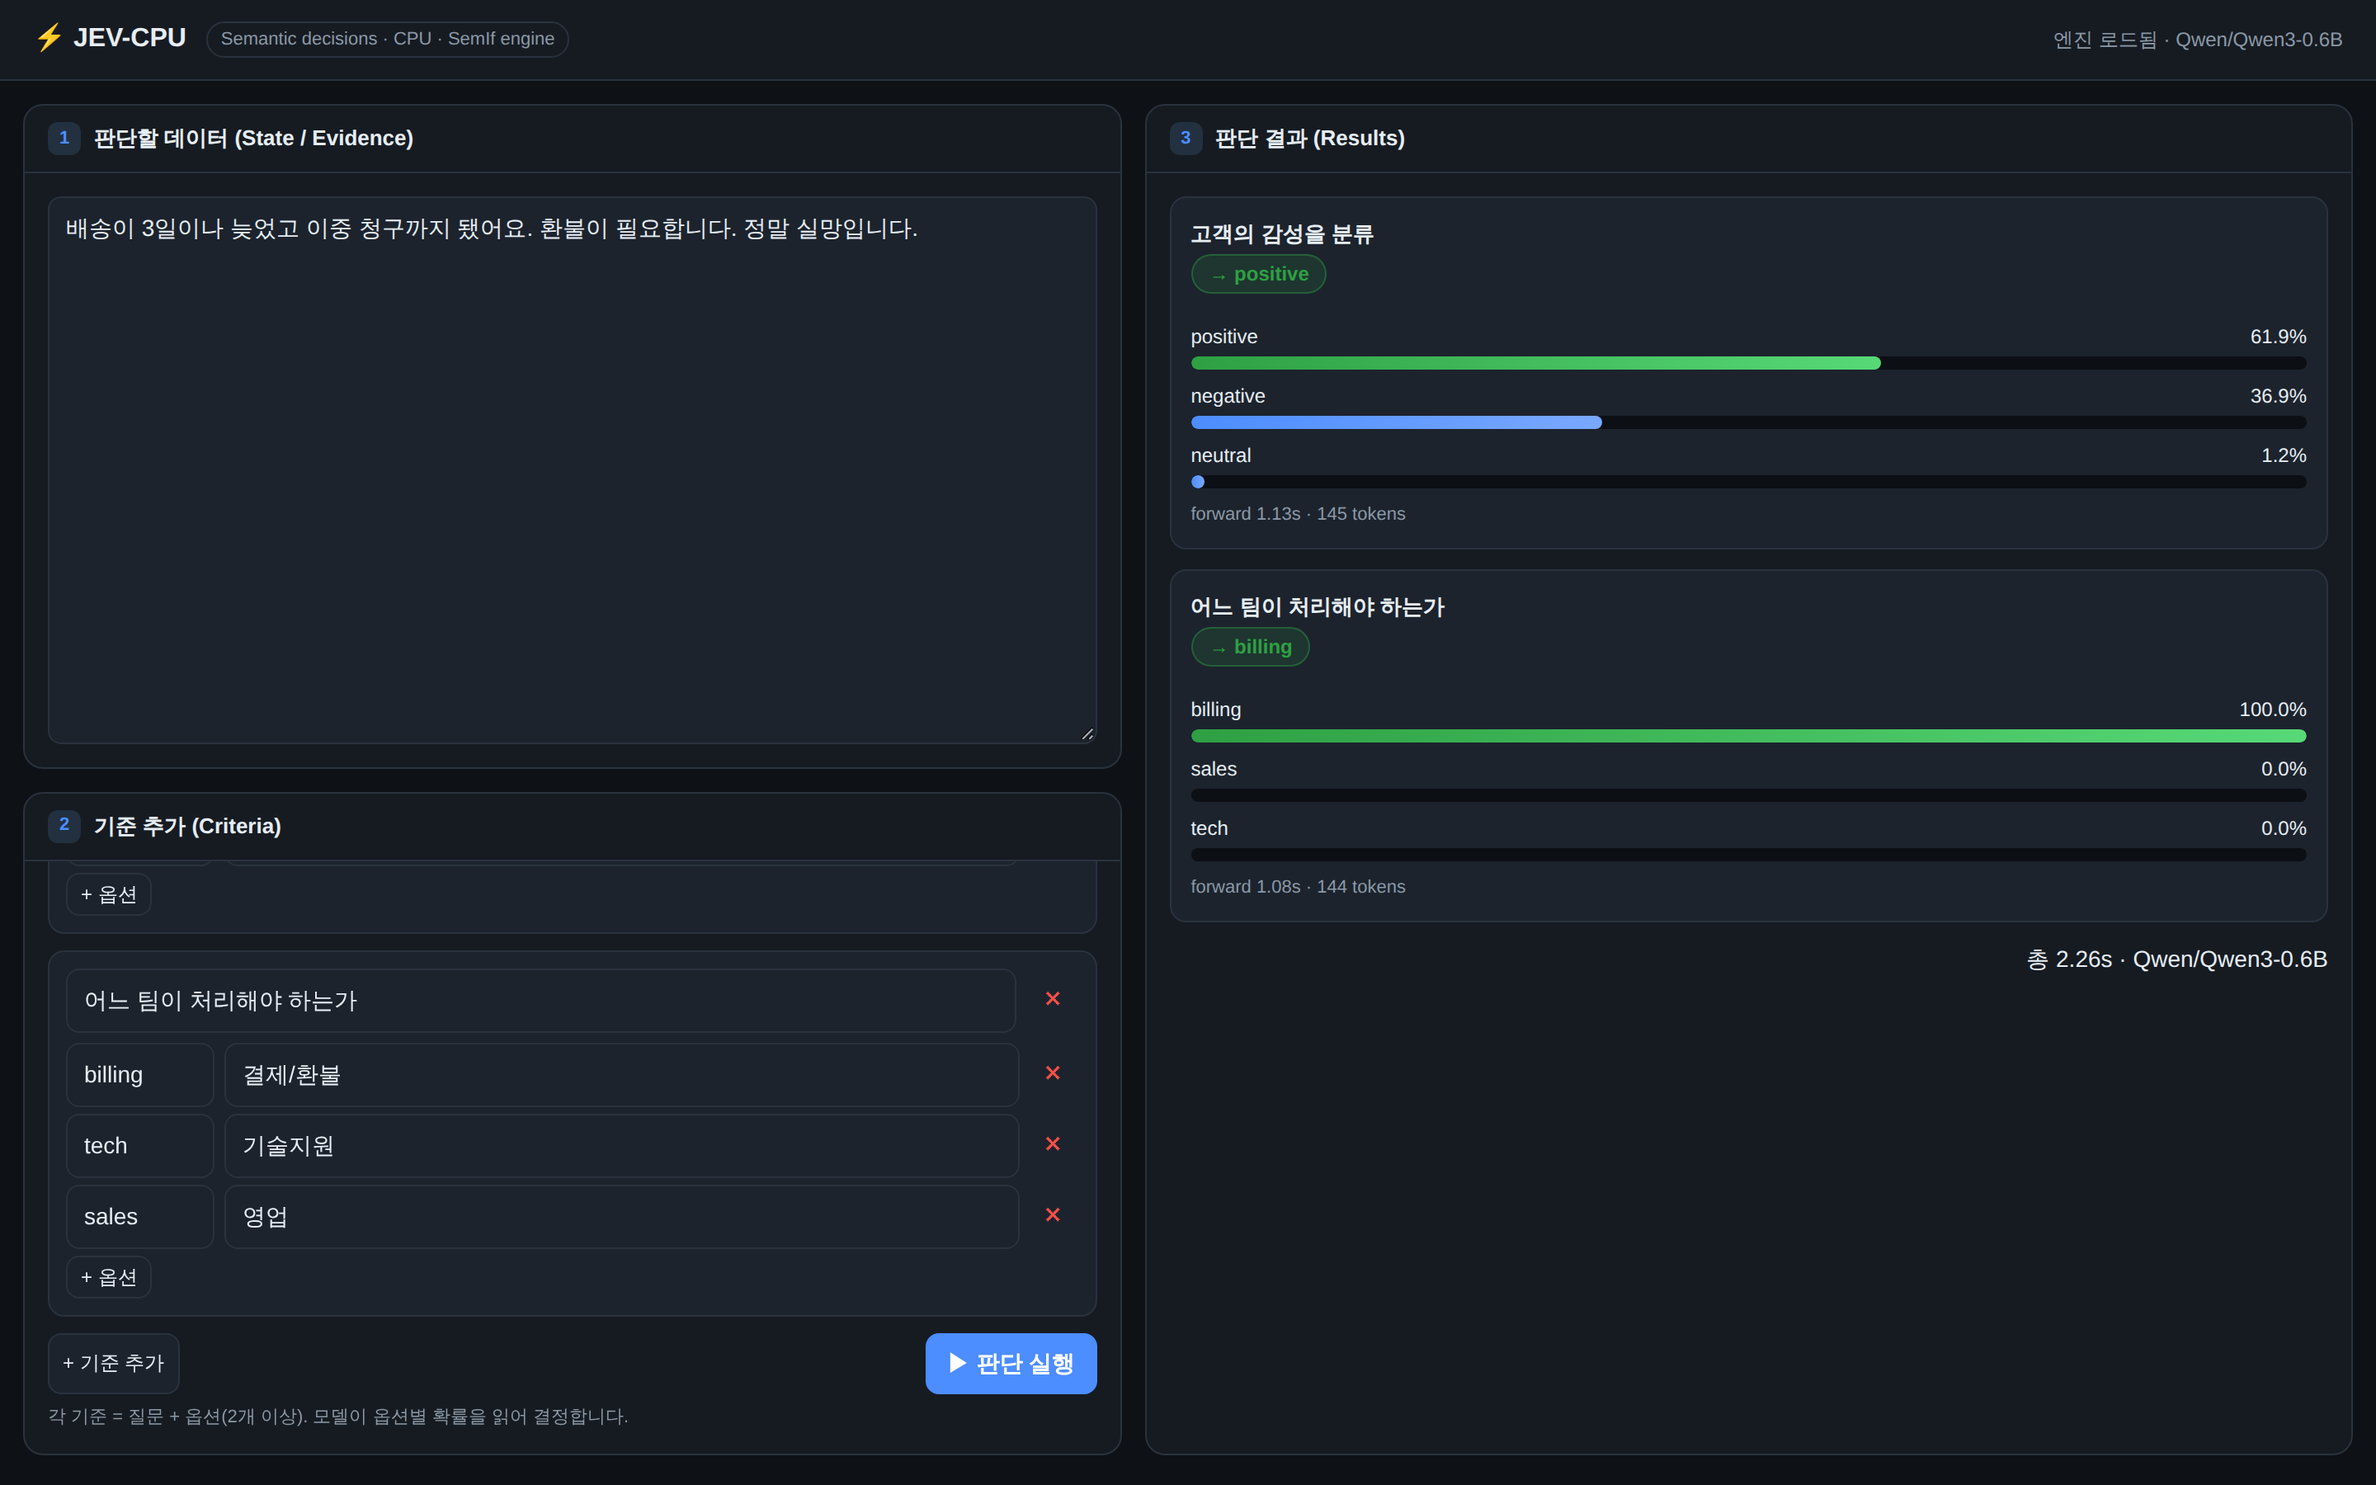
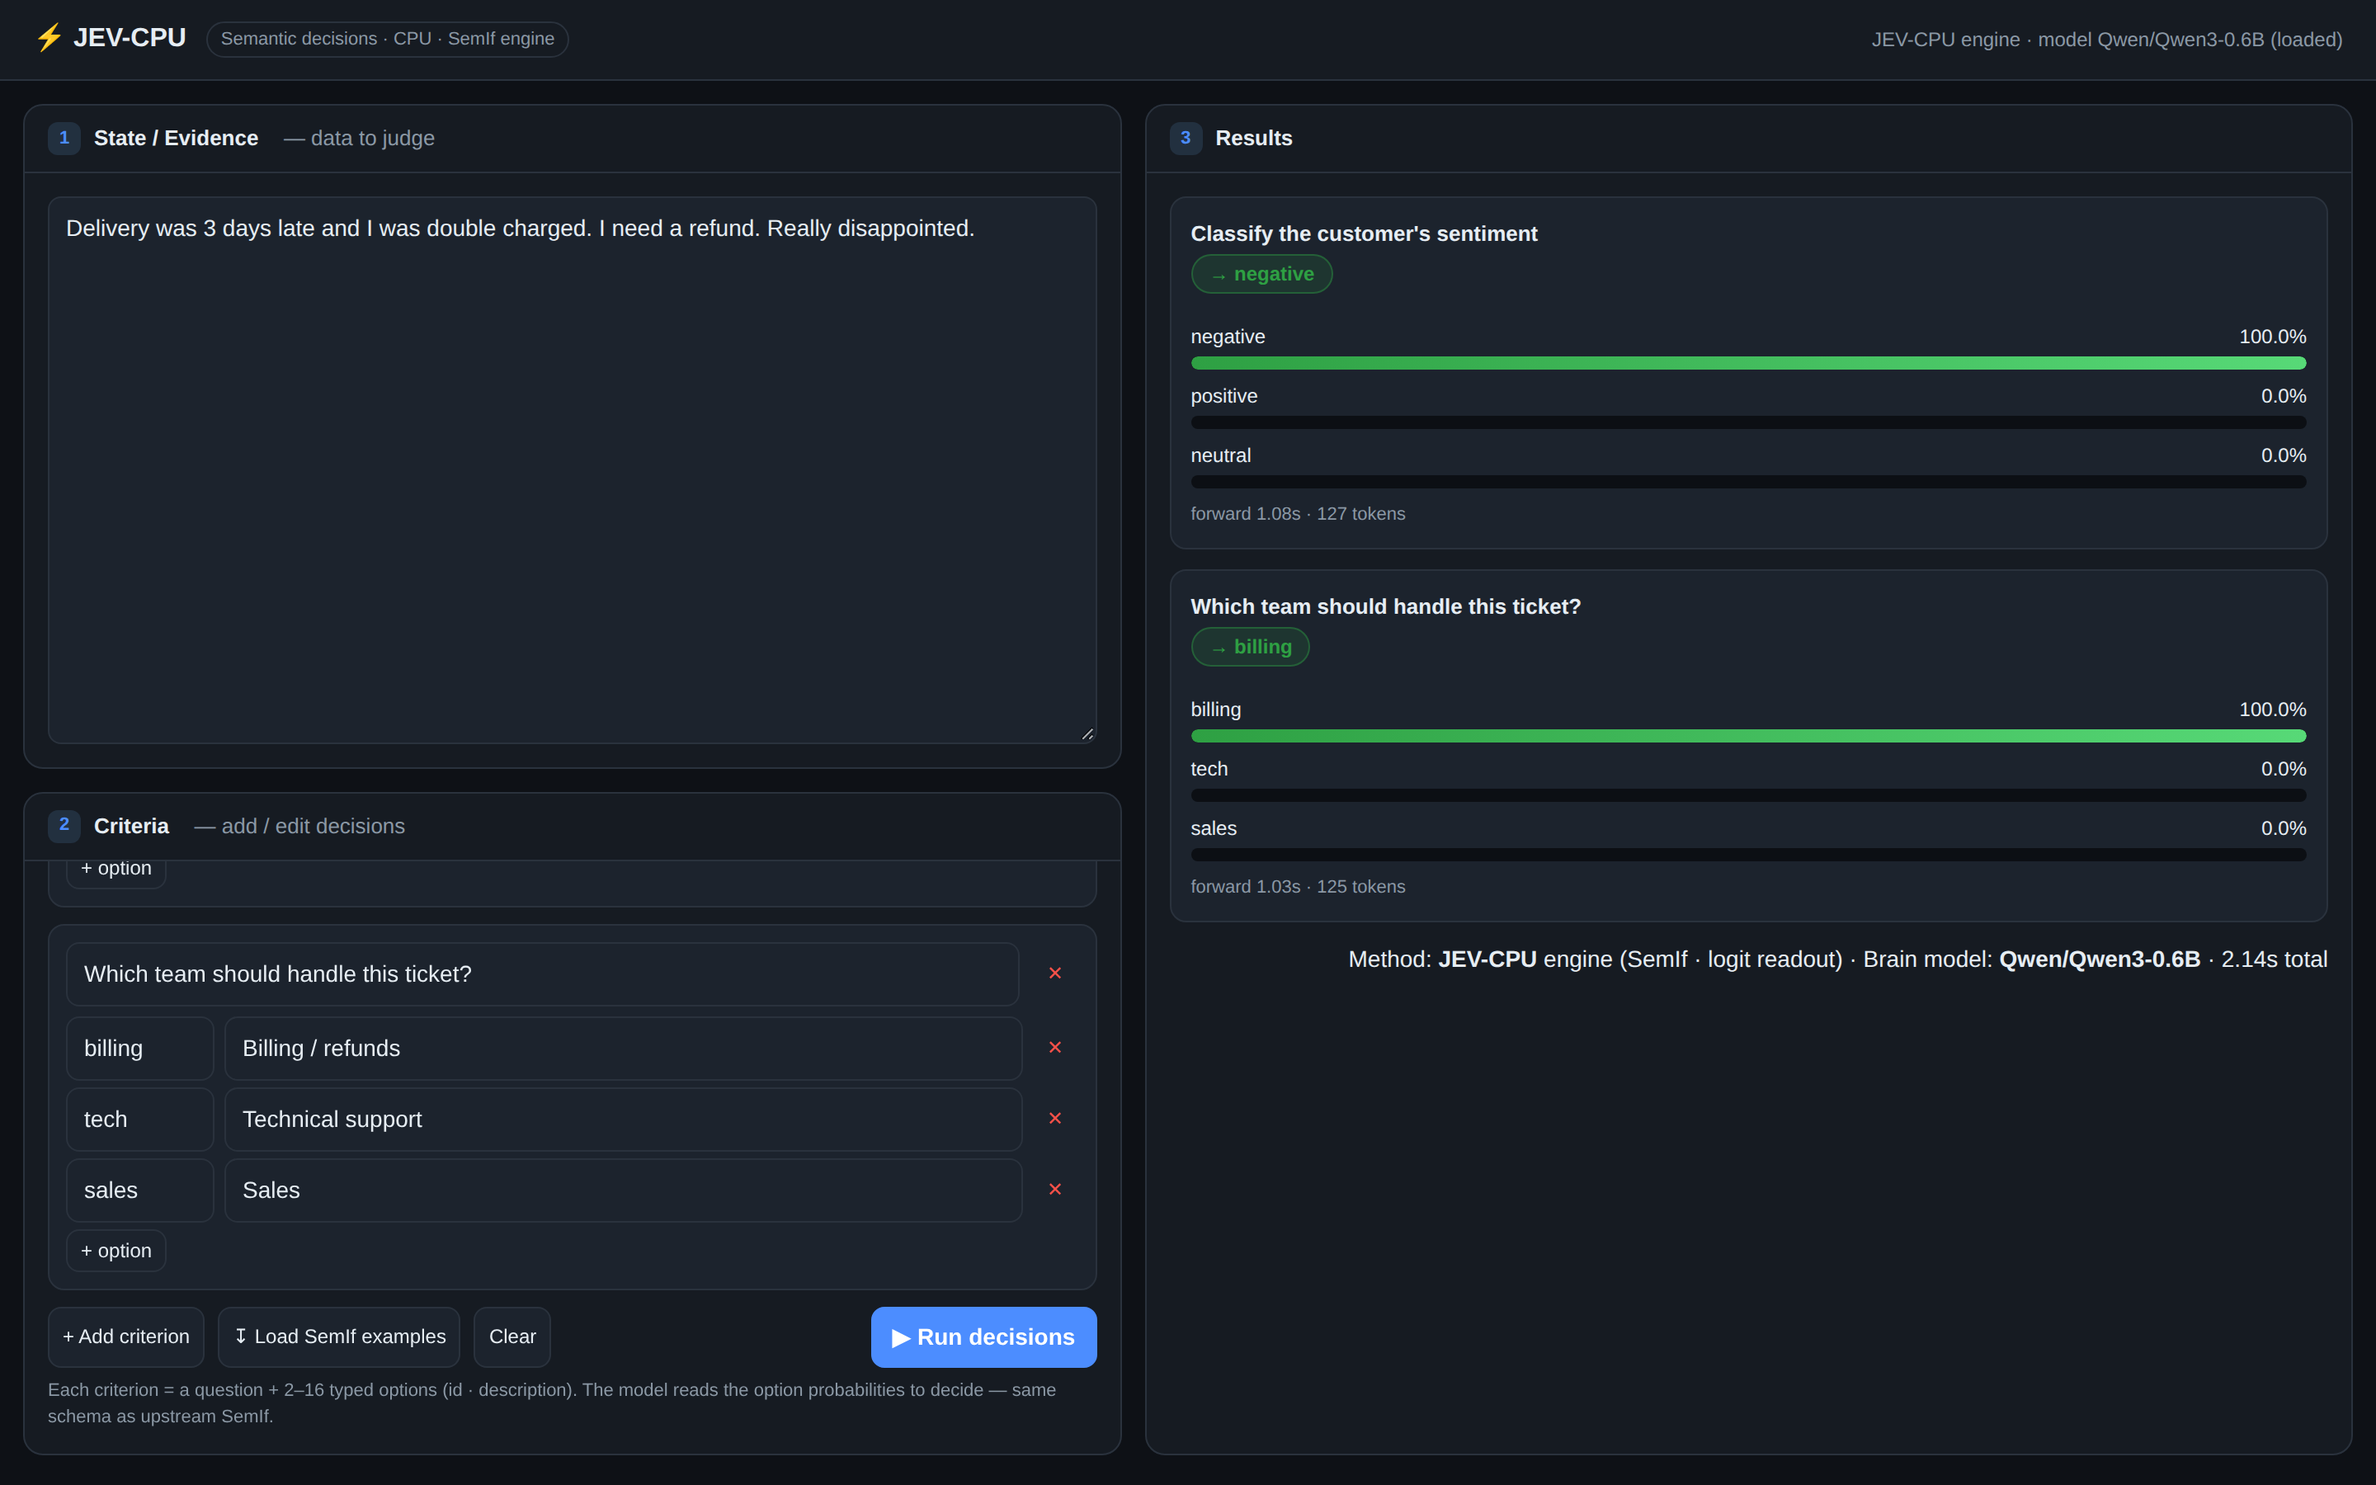
Translate web UI to English; document the logit-readout logic in detail
- server.py: full English UI (labels, buttons, seed example, status),
  clearer 'Method: JEV-CPU engine · Brain model: <model>' footer,
  + 'Load SemIf examples' button seeding upstream examples/decisions.jsonl.
- README: add 'How a decision is read from logits' — step-by-step of the
  letter-slot prompt, single-token pinning, one forward pass, and
  softmax-over-slots, plus the shared-state fast path.
- Refresh screenshot (English UI; sentiment now negative 100% on English input).

diff --git a/server.py b/server.py
@@ -109,7 +109,7 @@ class Handler(BaseHTTPRequestHandler):
 
 
 PAGE = r"""<!doctype html>
-<html lang="ko"><head>
+<html lang="en"><head>
 <meta charset="utf-8"><meta name="viewport" content="width=device-width,initial-scale=1">
 <title>JEV-CPU · Semantic Decisions on CPU</title>
 <style>
@@ -178,32 +178,34 @@ button.mini{padding:3px 8px;font-size:12px;font-weight:500}
 <header>
   <h1>⚡ JEV-CPU</h1><span class="tag">Semantic decisions · CPU · SemIf engine</span>
   <span class="spacer"></span>
-  <span id="status">엔진 준비 확인 중…</span>
+  <span id="status">Checking engine…</span>
 </header>
 <div class="grid">
 
   <section class="panel" id="pData">
-    <div class="head"><span class="num">1</span> 판단할 데이터 (State / Evidence)</div>
+    <div class="head"><span class="num">1</span> State / Evidence &nbsp;<span style="color:var(--muted);font-weight:400">— data to judge</span></div>
     <div class="body">
-      <textarea id="state" placeholder="여기에 판단 대상 데이터를 입력하세요.&#10;예) 고객 리뷰, 티켓 내용, 로그, JSON 등"></textarea>
+      <textarea id="state" placeholder="Paste the data to judge here.&#10;e.g. a customer review, support ticket, log line, or JSON."></textarea>
     </div>
   </section>
 
   <section class="panel" id="pCrit">
-    <div class="head"><span class="num">2</span> 기준 추가 (Criteria)</div>
+    <div class="head"><span class="num">2</span> Criteria &nbsp;<span style="color:var(--muted);font-weight:400">— add / edit decisions</span></div>
     <div class="body">
       <div id="crits"></div>
       <div class="toolbar">
-        <button class="mini" onclick="addCrit()">+ 기준 추가</button>
-        <button class="primary" id="runBtn" onclick="run()" style="margin-left:auto">▶ 판단 실행</button>
+        <button class="mini" onclick="addCrit()">+ Add criterion</button>
+        <button class="mini" onclick="loadOriginalExamples()" title="Load the 3 criteria from upstream SemIf examples/decisions.jsonl">↧ Load SemIf examples</button>
+        <button class="mini" onclick="clearCrits()">Clear</button>
+        <button class="primary" id="runBtn" onclick="run()" style="margin-left:auto">▶ Run decisions</button>
       </div>
-      <div class="hint">각 기준 = 질문 + 옵션(2개 이상). 모델이 옵션별 확률을 읽어 결정합니다.</div>
+      <div class="hint">Each criterion = a question + 2–16 typed options (id · description). The model reads the option probabilities to decide — same schema as upstream SemIf.</div>
     </div>
   </section>
 
   <section class="panel" id="pResult">
-    <div class="head"><span class="num">3</span> 판단 결과 (Results)</div>
-    <div class="body" id="results"><div class="empty">기준을 추가하고 <b>판단 실행</b>을 누르세요.</div></div>
+    <div class="head"><span class="num">3</span> Results</div>
+    <div class="body" id="results"><div class="empty">Add criteria and click <b>Run decisions</b>.</div></div>
   </section>
 
 </div>
@@ -214,22 +216,22 @@ function addCrit(q,opts){
   CID++;
   const c=el(`<div class="crit" data-cid="${CID}">
     <div class="row">
-      <input class="q" placeholder="기준/질문 (예: 고객 감성을 분류)" value="${q||''}">
-      <button class="del mini" title="삭제">✕</button>
+      <input class="q" placeholder="Question (e.g. Classify the customer's sentiment)" value="${q||''}">
+      <button class="del mini" title="Remove criterion">✕</button>
     </div>
     <div class="opts"></div>
-    <button class="mini addopt">+ 옵션</button>
+    <button class="mini addopt">+ option</button>
   </div>`);
   c.querySelector('.del').onclick=()=>c.remove();
   c.querySelector('.addopt').onclick=()=>c.querySelector('.opts').appendChild(optRow());
   const ob=c.querySelector('.opts');
-  (opts||[['positive','긍정'],['negative','부정']]).forEach(o=>ob.appendChild(optRow(o[0],o[1])));
+  (opts||[['yes','Yes'],['no','No']]).forEach(o=>ob.appendChild(optRow(o[0],o[1])));
   document.getElementById('crits').appendChild(c);
 }
 function optRow(id,desc){
   const o=el(`<div class="opt">
     <input placeholder="id" value="${id||''}">
-    <input placeholder="설명(description)" value="${desc||''}">
+    <input placeholder="description" value="${desc||''}">
     <button class="del mini">✕</button></div>`);
   o.querySelector('.del').onclick=()=>o.remove();
   return o;
@@ -249,10 +251,10 @@ function collect(){
 async function run(){
   const {state,criteria}=collect();
   const box=document.getElementById('results');
-  if(!state){box.innerHTML='<div class="err">좌측 상단에 판단할 데이터를 입력하세요.</div>';return;}
-  if(!criteria.length){box.innerHTML='<div class="err">기준을 1개 이상 추가하세요.</div>';return;}
-  const btn=document.getElementById('runBtn');btn.disabled=true;btn.textContent='판단 중…';
-  box.innerHTML='<div class="empty">CPU 추론 중… (모델 최초 로드 시 시간이 걸릴 수 있어요)</div>';
+  if(!state){box.innerHTML='<div class="err">Enter the data to judge in the top-left panel.</div>';return;}
+  if(!criteria.length){box.innerHTML='<div class="err">Add at least one criterion.</div>';return;}
+  const btn=document.getElementById('runBtn');btn.disabled=true;btn.textContent='Deciding…';
+  box.innerHTML='<div class="empty">Running on CPU… (the first request also loads the model)</div>';
   try{
     const res=await fetch('/api/decide',{method:'POST',headers:{'Content-Type':'application/json'},
       body:JSON.stringify({state,criteria})});
@@ -260,7 +262,7 @@ async function run(){
     if(!res.ok){box.innerHTML='<div class="err">'+(data.error||'오류')+'</div>';return;}
     render(data);
   }catch(e){box.innerHTML='<div class="err">'+e+'</div>';}
-  finally{btn.disabled=false;btn.textContent='▶ 판단 실행';}
+  finally{btn.disabled=false;btn.textContent='▶ Run decisions';}
 }
 function render(data){
   const box=document.getElementById('results');
@@ -282,23 +284,46 @@ function render(data){
       <div class="meta">forward ${r.forward_seconds}s · ${r.input_tokens} tokens</div>
     </div>`));
   });
-  box.appendChild(el(`<div class="meta" style="text-align:right">총 ${data.total_seconds}s · ${data.model}</div>`));
+  box.appendChild(el(`<div class="meta" style="text-align:right">
+    Method: <b>JEV-CPU</b> engine (SemIf · logit readout) · Brain model: <b>${data.model}</b> · ${data.total_seconds}s total</div>`));
 }
 async function health(){
   try{const d=await (await fetch('/api/health')).json();
-    document.getElementById('status').textContent=(d.loaded?'엔진 로드됨':'첫 요청 시 모델 로드')+' · '+d.model;
-  }catch(e){document.getElementById('status').textContent='서버 연결 실패';}
+    document.getElementById('status').textContent='JEV-CPU engine · model '+d.model+(d.loaded?' (loaded)':' (loads on first request)');
+  }catch(e){document.getElementById('status').textContent='Server unreachable';}
 }
-// seed
-addCrit('고객의 감성을 분류',[['positive','긍정/만족'],['neutral','중립'],['negative','부정/불만']]);
-addCrit('어느 팀이 처리해야 하는가',[['billing','결제/환불'],['tech','기술지원'],['sales','영업']]);
-document.getElementById('state').value='배송이 3일이나 늦었고 이중 청구까지 됐어요. 환불이 필요합니다. 정말 실망입니다.';
+function clearCrits(){document.getElementById('crits').innerHTML='';}
+// 원본 SemIf examples/decisions.jsonl 의 기준(question + options) 그대로.
+const ORIGINAL_EXAMPLES={
+  state:"The deployment completed at 14:02 UTC. Health checks passed in all three zones. No rollback was initiated.",
+  criteria:[
+    ['Is there evidence that the deployment succeeded?',
+      [['yes','The deployment succeeded.'],['no','The deployment did not succeed.'],
+       ['insufficient','The evidence is insufficient to decide.']]],
+    ['Which queue should handle this request?',
+      [['account_access','Account access and authentication support.'],
+       ['billing','Billing and payment support.'],['sales','Sales and product evaluation.']]],
+    ['Does the request require an approved change ticket under the stated policy?',
+      [['required','An approved change ticket is required.'],
+       ['not_required','An approved change ticket is not required.'],
+       ['insufficient','The evidence is insufficient to decide.']]],
+  ]
+};
+function loadOriginalExamples(){
+  clearCrits();
+  document.getElementById('state').value=ORIGINAL_EXAMPLES.state;
+  ORIGINAL_EXAMPLES.criteria.forEach(([q,opts])=>addCrit(q,opts));
+}
+// seed (English default example)
+addCrit("Classify the customer's sentiment",[['positive','Positive / satisfied'],['neutral','Neutral'],['negative','Negative / dissatisfied']]);
+addCrit('Which team should handle this ticket?',[['billing','Billing / refunds'],['tech','Technical support'],['sales','Sales']]);
+document.getElementById('state').value='Delivery was 3 days late and I was double charged. I need a refund. Really disappointed.';
 health();
 </script>
 </body></html>"""
 
 
 if __name__ == "__main__":
-    print(f"[server] SemIf UI on http://0.0.0.0:{PORT}  (Ctrl+C to stop)", flush=True)
+    print(f"[server] JEV-CPU UI on http://0.0.0.0:{PORT}  (Ctrl+C to stop)", flush=True)
     get_engine()  # 시작 시 미리 로드
     ThreadingHTTPServer(("0.0.0.0", PORT), Handler).serve_forever()

diff --git a/README.md b/README.md
@@ -55,6 +55,56 @@ flowchart LR
 
 ---
 
+## How a decision is read from logits
+
+This is the core idea, and it is why decisions are fast and cheap on a CPU: **the model never generates the answer — JEV-CPU reads it straight out of a single forward pass.** Below is the exact `direct` path (`src/semif_phase1/direct.py` + `core.py`), unchanged from upstream SemIf.
+
+**1. Turn the decision into a letter-choice prompt.**
+Each option is assigned an uppercase letter (`A`, `B`, `C`, …). The request becomes one chat turn:
+
+```
+system: Apply the supplied criterion to the supplied evidence. Choose exactly
+        one listed option. Respond with only its uppercase letter, with no
+        explanation or reasoning.
+user:   {"evidence": <state>,
+         "criterion": <question>,
+         "options": [{"letter": "A", "description": "..."},
+                     {"letter": "B", "description": "..."}, ...]}
+```
+
+The chat template is applied with `add_generation_prompt=True` and `enable_thinking=False`, so the very next token the model would emit is the answer letter.
+
+**2. Pin each option to exactly one token.**
+For every letter, `_slot_ids()` checks that the letter encodes to a **single token** that round-trips (`decode(encode("A")) == "A"`), and that appending it to the prompt does not change the prompt's tokenization. This guarantees each option maps to one clean, comparable vocabulary slot — no multi-token drift, no whitespace merges.
+
+**3. One forward pass — no decoding loop.**
+The prompt is run through the model **once**. We take the logits at the final position only — the distribution over the *next* token:
+
+```python
+logits = model(**inputs, use_cache=False).logits[:, -1, :]   # (vocab,)
+```
+
+No sampling, no `.generate()`, no answer sentence, no JSON to repair.
+
+**4. Keep only the option slots, then softmax.**
+From that full-vocabulary logit vector we gather just the option-letter token ids and softmax **over those slots alone**:
+
+```python
+selected = logits[slot_ids]          # e.g. logits at tokens A, B, C
+probs    = softmax(selected)         # conditional distribution over the options
+winner   = options[argmax(probs)]
+```
+
+The result is a probability per option, **conditional on the declared option set** — reported by JEV-CPU as `option_logits` + `probabilities`. Because it is one forward pass reading fixed positions, latency is dominated by prefill, not by generation length.
+
+> **Why it is device-agnostic:** every step above is `device = next(model.parameters()).device`; the only CUDA-specific call in the whole path is `torch.cuda.synchronize()`, guarded by `if device.type == "cuda"`. On CPU it is simply skipped — so the *same* code runs unchanged.
+
+### Reusing one state across many criteria (`shared` mode)
+
+When every criterion judges the **same** state, `shared.py` prefills that state once into a native KV cache, replicates the cache across branches (`reorder_cache`), and evaluates all criteria's option positions in one batched forward using `logits_to_keep`. One expensive prefill, many cheap decisions — see upstream SemIf's speed tables. JEV-CPU inherits this path as-is (CPU just runs it without the CUDA sync).
+
+---
+
 ## Quick start
 
 Python 3.10+, ~3 GB RAM, no GPU:
